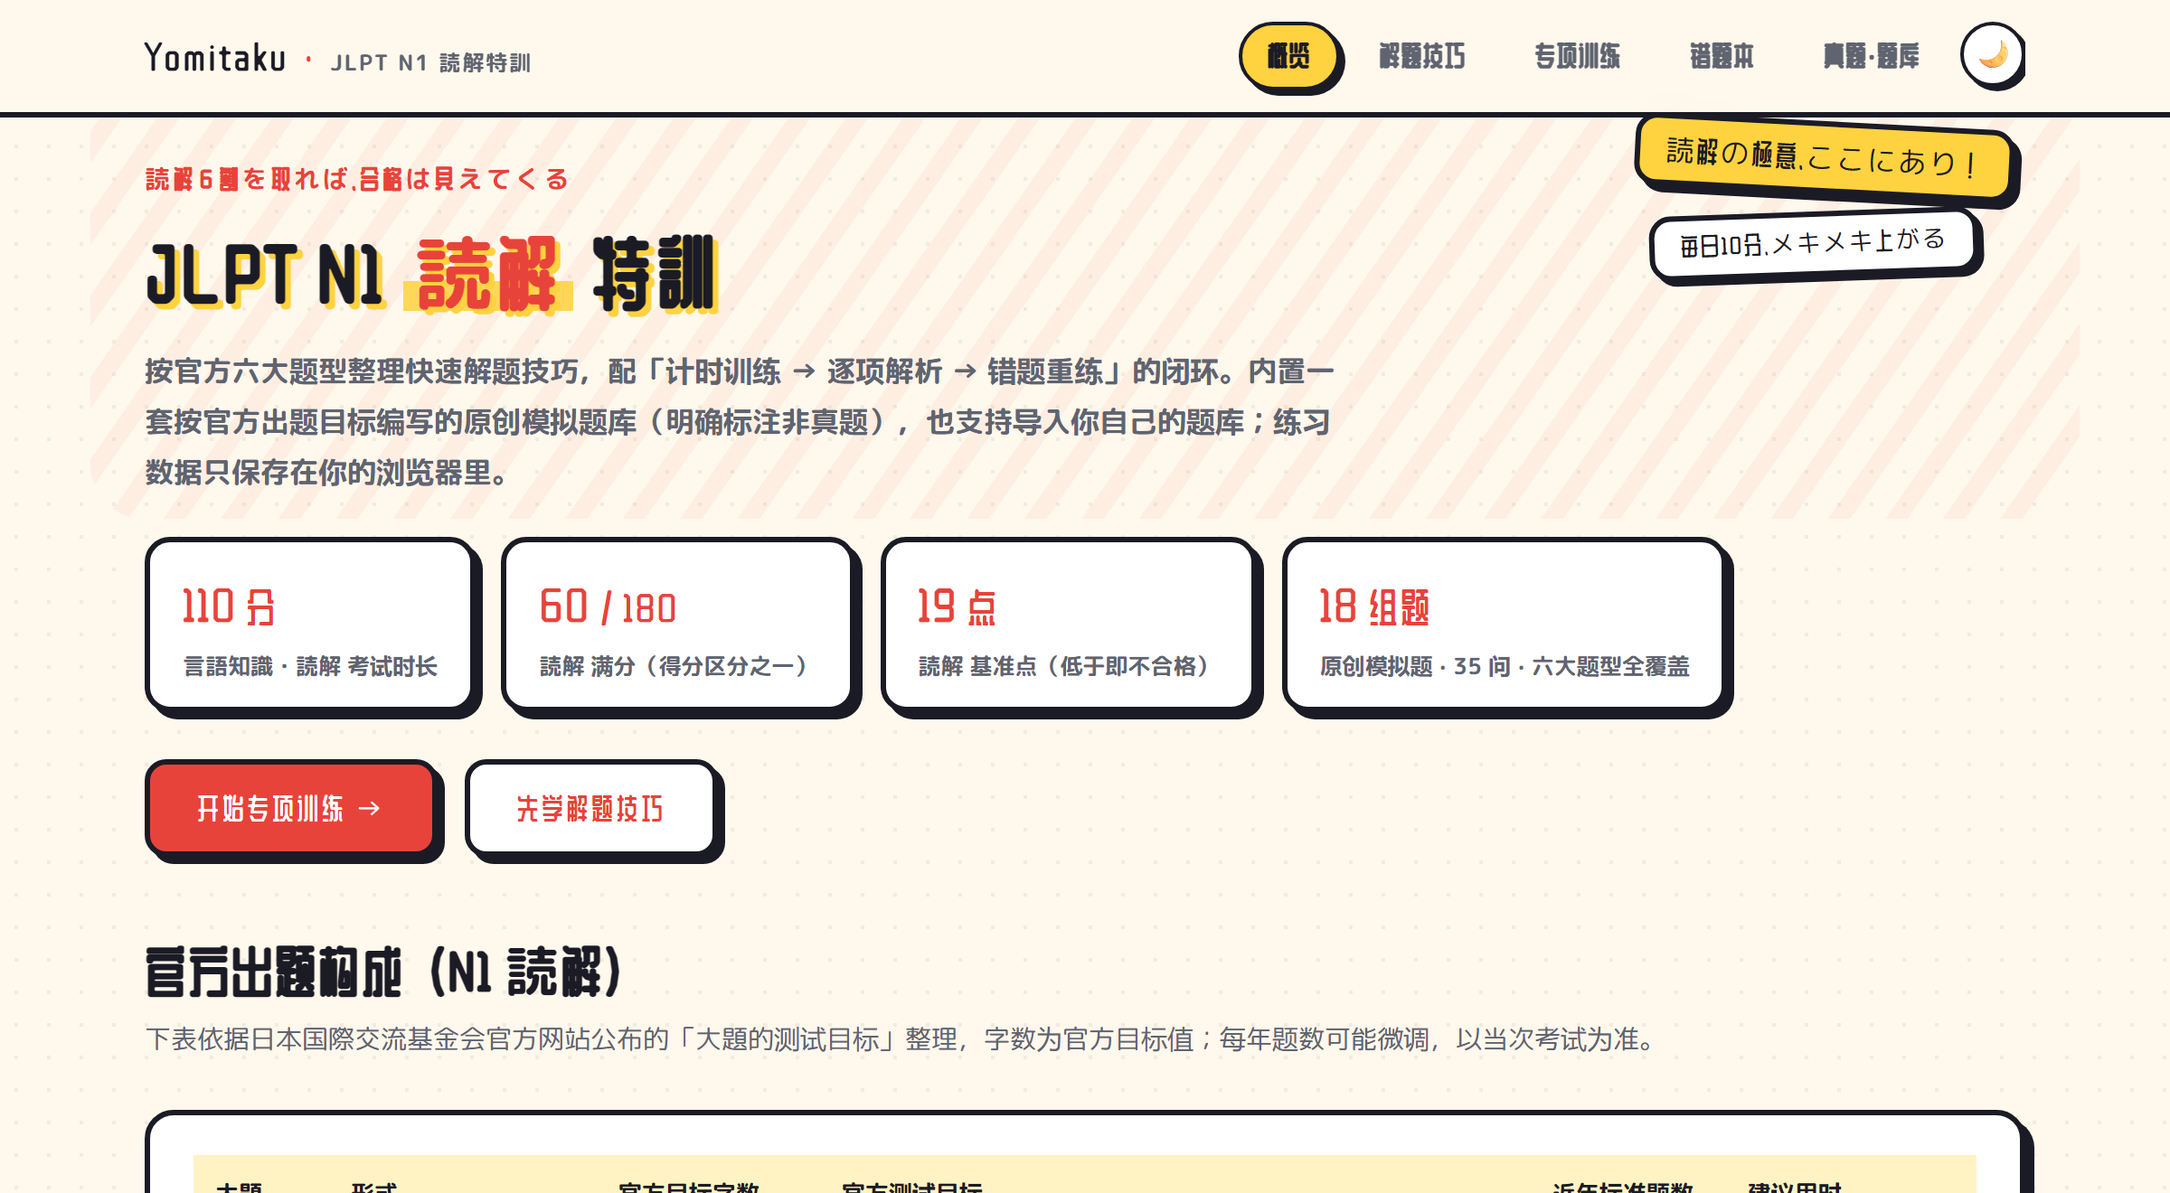
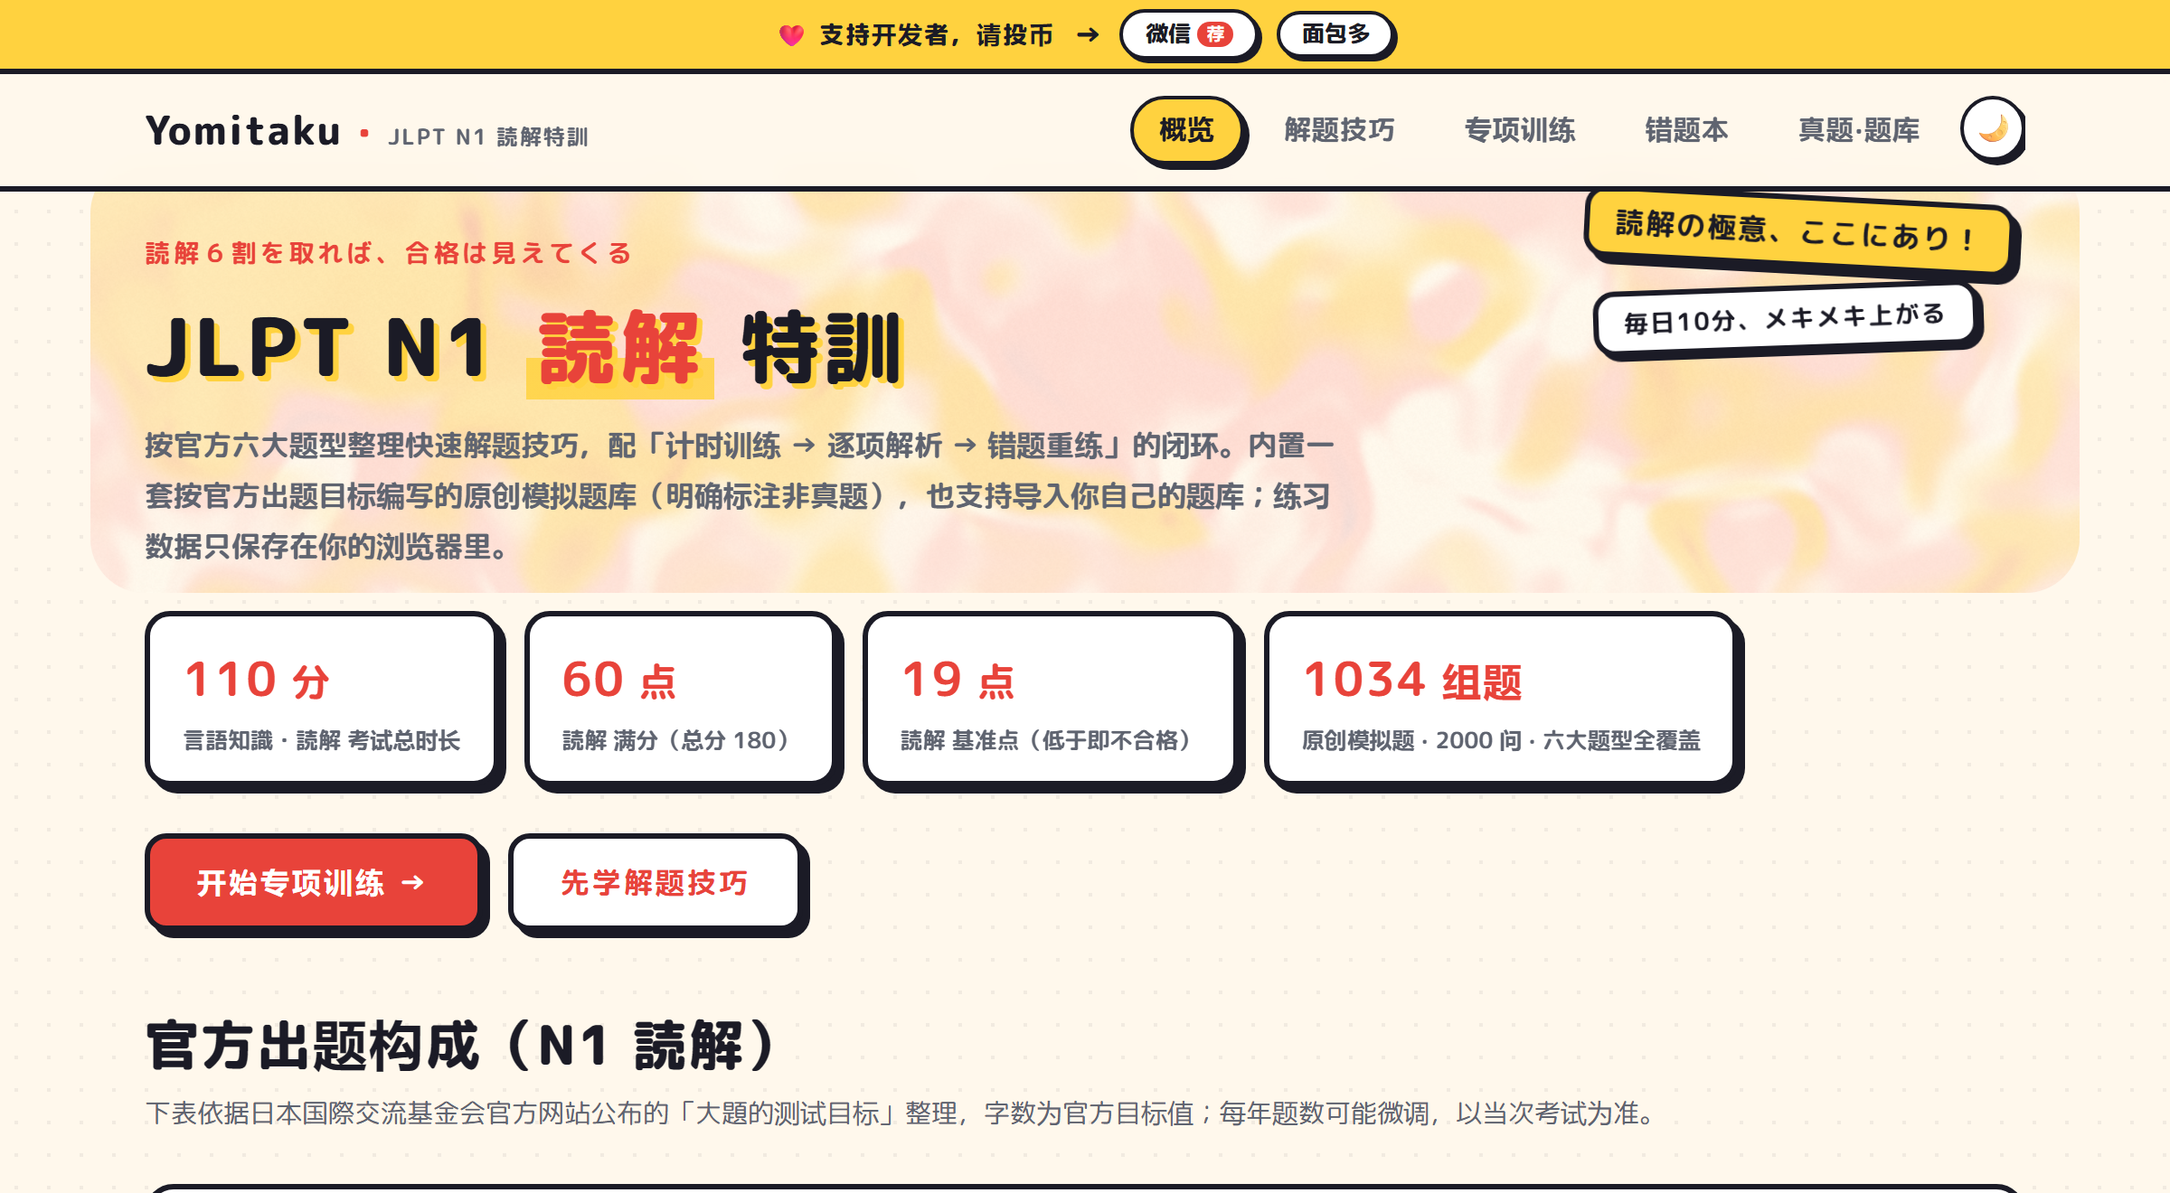
feat: hero 水墨晕染背景 + 入场编排
- WebGL 流体渐变带（技术形态借鉴 DeepSeek Harness 页）：simplex 噪声域扭曲，
  桜/山吹/薄朱在和纸上晕开，深色主题为夜桜/藍残照；复用原斜纹带几何，激活后替换
- 省电三件套：锁 30fps + 滚出视口暂停 + 页面隐藏暂停；移动端 DPR 钳制 1.5
- 降级链静默回落：无 JS/WebGL 失败/系统减弱动态 → 原斜纹带或静态终态
- 入场编排：data-reveal 逐级上浮、数据卡数字滚动、荧光笔扫过、贴纸弹跳+常驻浮动
- 练习页正文零改动

diff --git a/js/hero-ink.js b/js/hero-ink.js
@@ -1,0 +1,268 @@
+/* Yomitaku hero 水墨晕染 + 入场编排。
+   技术形态借鉴 DeepSeek Harness 页（WebGL 流体渐变 + 省电三件套：锁 30fps /
+   滚出视口暂停 / 页面隐藏暂停），配色改写为本站和纸暖色系。
+   降级链（任一环失败都静默回落、绝不白屏）：
+   脚本挂了 → 页面原样；WebGL 不可用 → 斜纹带保留，入场编排照常；
+   prefers-reduced-motion → 全静态，终态由 CSS 兜底。 */
+(function () {
+  'use strict';
+  var hero = document.querySelector('.hero');
+  if (!hero) return;
+  var reduced = window.matchMedia && matchMedia('(prefers-reduced-motion: reduce)').matches;
+
+  /* —— 入场编排：--i 决定 stagger 次序，挂 ink-go 触发过渡 —— */
+  var els = hero.querySelectorAll('[data-reveal]');
+  for (var i = 0; i < els.length; i++) els[i].style.setProperty('--i', i);
+  hero.classList.add('ink-anim');
+  if (reduced) {
+    hero.classList.add('ink-go');
+  } else {
+    requestAnimationFrame(function () {
+      requestAnimationFrame(function () { hero.classList.add('ink-go'); });
+    });
+  }
+
+  /* —— 数据卡数字滚动（含动态统计 [data-bank-stat] 的卡片跳过，避免和 app.js 打架） —— */
+  function count(node, target, t0) {
+    var p = Math.min(1, (performance.now() - t0) / 900);
+    p = 1 - Math.pow(1 - p, 3); /* easeOutCubic */
+    node.nodeValue = String(Math.round(target * p));
+    if (p < 1) requestAnimationFrame(function () { count(node, target, t0); });
+  }
+  if (!reduced) {
+    var nums = hero.querySelectorAll('.fact .num');
+    setTimeout(function () {
+      for (var k = 0; k < nums.length; k++) {
+        var el = nums[k];
+        if (el.querySelector('[data-bank-stat]')) continue;
+        var node = el.firstChild;
+        var target = parseInt(node.nodeValue, 10);
+        if (!isFinite(target) || target <= 0) continue;
+        count(node, target, performance.now());
+      }
+    }, 380);
+  }
+
+  /* —— 水墨晕染画布 —— */
+  var canvas = document.getElementById('hero-ink');
+  if (!canvas || reduced) return; /* 减弱动态：保持静态斜纹带 */
+  var gl = canvas.getContext('webgl', { antialias: false, alpha: false, powerPreference: 'low-power' })
+        || canvas.getContext('experimental-webgl');
+  if (!gl) return;
+
+  var VSH = 'attribute vec2 p; void main(){ gl_Position = vec4(p, 0.0, 1.0); }';
+
+  /* 单 pass 片元着色器：simplex 噪声域扭曲 = 颜料在和纸上晕开。
+     噪声用 Ashima Arts / Stefan Gustavson 的公有领域参考实现。 */
+  var FSH = [
+    'precision mediump float;',
+    'uniform vec2 u_res;',
+    'uniform float u_time;',
+    'uniform vec3 u_base;',
+    'uniform vec3 u_c1;',
+    'uniform vec3 u_c2;',
+    'uniform vec3 u_c3;',
+    'uniform vec3 u_c4;',
+    'uniform float u_grain;',
+    'vec3 mod289(vec3 x){ return x - floor(x * (1.0/289.0)) * 289.0; }',
+    'vec4 mod289(vec4 x){ return x - floor(x * (1.0/289.0)) * 289.0; }',
+    'vec4 permute(vec4 x){ return mod289(((x*34.0)+1.0)*x); }',
+    'vec4 taylorInvSqrt(vec4 r){ return 1.79284291400159 - 0.85373472095314 * r; }',
+    'float snoise(vec3 v){',
+    '  const vec2 C = vec2(1.0/6.0, 1.0/3.0);',
+    '  const vec4 D = vec4(0.0, 0.5, 1.0, 2.0);',
+    '  vec3 i  = floor(v + dot(v, C.yyy));',
+    '  vec3 x0 = v - i + dot(i, C.xxx);',
+    '  vec3 g = step(x0.yzx, x0.xyz);',
+    '  vec3 l = 1.0 - g;',
+    '  vec3 i1 = min(g.xyz, l.zxy);',
+    '  vec3 i2 = max(g.xyz, l.zxy);',
+    '  vec3 x1 = x0 - i1 + C.xxx;',
+    '  vec3 x2 = x0 - i2 + C.yyy;',
+    '  vec3 x3 = x0 - D.yyy;',
+    '  i = mod289(i);',
+    '  vec4 p = permute(permute(permute(',
+    '        i.z + vec4(0.0, i1.z, i2.z, 1.0))',
+    '      + i.y + vec4(0.0, i1.y, i2.y, 1.0))',
+    '      + i.x + vec4(0.0, i1.x, i2.x, 1.0));',
+    '  float n_ = 0.142857142857;',
+    '  vec3 ns = n_ * D.wyz - D.xzx;',
+    '  vec4 j = p - 49.0 * floor(p * ns.z * ns.z);',
+    '  vec4 x_ = floor(j * ns.z);',
+    '  vec4 y_ = floor(j - 7.0 * x_);',
+    '  vec4 x = x_ * ns.x + ns.yyyy;',
+    '  vec4 y = y_ * ns.x + ns.yyyy;',
+    '  vec4 h = 1.0 - abs(x) - abs(y);',
+    '  vec4 b0 = vec4(x.xy, y.xy);',
+    '  vec4 b1 = vec4(x.zw, y.zw);',
+    '  vec4 s0 = floor(b0)*2.0 + 1.0;',
+    '  vec4 s1 = floor(b1)*2.0 + 1.0;',
+    '  vec4 sh = -step(h, vec4(0.0));',
+    '  vec4 a0 = b0.xzyw + s0.xzyw*sh.xxyy;',
+    '  vec4 a1 = b1.xzyw + s1.xzyw*sh.zzww;',
+    '  vec3 p0 = vec3(a0.xy, h.x);',
+    '  vec3 p1 = vec3(a0.zw, h.y);',
+    '  vec3 p2 = vec3(a1.xy, h.z);',
+    '  vec3 p3 = vec3(a1.zw, h.w);',
+    '  vec4 norm = taylorInvSqrt(vec4(dot(p0,p0), dot(p1,p1), dot(p2,p2), dot(p3,p3)));',
+    '  p0 *= norm.x; p1 *= norm.y; p2 *= norm.z; p3 *= norm.w;',
+    '  vec4 m = max(0.6 - vec4(dot(x0,x0), dot(x1,x1), dot(x2,x2), dot(x3,x3)), 0.0);',
+    '  m = m * m;',
+    '  return 42.0 * dot(m*m, vec4(dot(p0,x0), dot(p1,x1), dot(p2,x2), dot(p3,x3)));',
+    '}',
+    'float fbm(vec2 p, float t){',
+    '  float v = 0.0;',
+    '  float a = 0.62;',
+    '  for (int i = 0; i < 2; i++) {',
+    '    v += a * snoise(vec3(p, t));',
+    '    p = p * 2.1 + 17.3;',
+    '    a *= 0.5;',
+    '  }',
+    '  return v;',
+    '}',
+    'void main(){',
+    '  vec2 uv = gl_FragCoord.xy / u_res;',
+    '  vec2 p = uv; p.x *= u_res.x / u_res.y;',
+    '  float t = u_time;',
+    /* 两层低频噪声场互相推动 = 墨滴晕开的走向 */
+    '  vec2 w = vec2(fbm(p * 1.3, t * 0.05), fbm(p * 1.3 + 5.2, t * 0.05 + 1.7));',
+    '  float n = fbm(p * 1.7 + w * 1.1, t * 0.04) * 0.5 + 0.5;',
+    '  float s = snoise(vec3(p * 0.9 + w, t * 0.03)) * 0.5 + 0.5;',
+    '  vec3 col = u_base;',
+    '  col = mix(col, u_c1, smoothstep(0.28, 0.60, n) * 0.85);',
+    '  col = mix(col, u_c2, smoothstep(0.42, 0.72, s) * 0.85);',
+    '  col = mix(col, u_c3, smoothstep(0.42, 0.75, n * s) * 0.7);',
+    '  col = mix(col, u_c4, smoothstep(0.58, 0.92, n - s * 0.35) * 0.5);',
+    /* 纸纹颗粒：半调网点的近亲 */
+    '  float g = fract(sin(dot(gl_FragCoord.xy, vec2(12.9898, 78.233))) * 43758.5453);',
+    '  col += (g - 0.5) * u_grain;',
+    /* 边缘收向纸色，圆角外与页面底色无缝衔接 */
+    '  float edge = smoothstep(0.0, 0.16, uv.x) * smoothstep(1.0, 0.84, uv.x)',
+    '             * smoothstep(0.0, 0.30, uv.y) * smoothstep(1.0, 0.70, uv.y);',
+    '  col = mix(u_base, col, 0.82 + 0.18 * edge);',
+    '  gl_FragColor = vec4(col, 1.0);',
+    '}'
+  ].join('\n');
+
+  function makeShader(type, src) {
+    var s = gl.createShader(type);
+    gl.shaderSource(s, src);
+    gl.compileShader(s);
+    return gl.getShaderParameter(s, gl.COMPILE_STATUS) ? s : null;
+  }
+  var vs = makeShader(gl.VERTEX_SHADER, VSH);
+  var fs = makeShader(gl.FRAGMENT_SHADER, FSH);
+  if (!vs || !fs) return;
+  var prog = gl.createProgram();
+  gl.attachShader(prog, vs);
+  gl.attachShader(prog, fs);
+  gl.linkProgram(prog);
+  if (!gl.getProgramParameter(prog, gl.LINK_STATUS)) return;
+  gl.useProgram(prog);
+
+  var buf = gl.createBuffer();
+  gl.bindBuffer(gl.ARRAY_BUFFER, buf);
+  gl.bufferData(gl.ARRAY_BUFFER, new Float32Array([-1, -1, 1, -1, -1, 1, 1, 1]), gl.STATIC_DRAW);
+  var loc = gl.getAttribLocation(prog, 'p');
+  gl.enableVertexAttribArray(loc);
+  gl.vertexAttribPointer(loc, 2, gl.FLOAT, false, 0, 0);
+
+  var U = {};
+  var UNAMES = ['u_res', 'u_time', 'u_base', 'u_c1', 'u_c2', 'u_c3', 'u_c4', 'u_grain'];
+  for (var u = 0; u < UNAMES.length; u++) U[UNAMES[u]] = gl.getUniformLocation(prog, UNAMES[u]);
+
+  /* 和纸暖色（浅）／夜の和紙（深），与 CSS 令牌同一族 */
+  var PALETTES = {
+    light: {
+      base: [1.0, 0.973, 0.925],   /* #fff8ec 和纸 */
+      c1: [1.0, 0.851, 0.812],     /* #ffd9cf 桜 */
+      c2: [1.0, 0.890, 0.631],     /* #ffe3a1 山吹 */
+      c3: [0.965, 0.722, 0.682],   /* #f6b8ae 薄朱 */
+      c4: [0.800, 0.827, 0.867],   /* #ccd3dd 淡藍墨 */
+      grain: 0.02
+    },
+    dark: {
+      base: [0.090, 0.082, 0.129], /* #171521 夜の和紙 */
+      c1: [0.227, 0.137, 0.192],   /* 夜桜 */
+      c2: [0.122, 0.200, 0.314],   /* 藍 */
+      c3: [0.302, 0.145, 0.157],   /* 朱の残照 */
+      c4: [0.247, 0.212, 0.125],   /* 夜金 */
+      grain: 0.028
+    }
+  };
+  function applyTheme() {
+    var p = PALETTES[document.documentElement.getAttribute('data-theme') === 'dark' ? 'dark' : 'light'];
+    gl.uniform3fv(U.u_base, p.base);
+    gl.uniform3fv(U.u_c1, p.c1);
+    gl.uniform3fv(U.u_c2, p.c2);
+    gl.uniform3fv(U.u_c3, p.c3);
+    gl.uniform3fv(U.u_c4, p.c4);
+    gl.uniform1f(U.u_grain, p.grain);
+  }
+  new MutationObserver(applyTheme).observe(document.documentElement, { attributes: true, attributeFilter: ['data-theme'] });
+
+  /* 移动端 DPR 钳制：2~3 倍屏全按原生分辨率渲是手机 GPU 翻车主因；
+     柔和低频晕染降采样肉眼不可辨，1.5 足够 */
+  var dpr = Math.min(window.devicePixelRatio || 1, 1.5);
+  function resize() {
+    var r = canvas.getBoundingClientRect();
+    var w = Math.max(1, Math.round(r.width * dpr));
+    var h = Math.max(1, Math.round(r.height * dpr));
+    if (canvas.width !== w || canvas.height !== h) {
+      canvas.width = w;
+      canvas.height = h;
+      gl.viewport(0, 0, w, h);
+    }
+    gl.uniform2f(U.u_res, w, h); /* 着色器按此做 uv 归一化——漏设会除零，全场坍缩成底色 */
+  }
+
+  var FRAME = 1000 / 30; /* 锁 30fps：氛围动画不需要 60，省电是硬指标 */
+  var raf = 0, last = 0, t0 = performance.now(), onScreen = true;
+  function draw(now) {
+    gl.uniform1f(U.u_time, (now - t0) / 1000);
+    gl.drawArrays(gl.TRIANGLE_STRIP, 0, 4);
+  }
+  function loop(now) {
+    raf = 0;
+    if (!onScreen || document.hidden) return;
+    if (now - last < FRAME) { raf = requestAnimationFrame(loop); return; }
+    last = now;
+    draw(now);
+    raf = requestAnimationFrame(loop);
+  }
+  function kick() {
+    if (!raf && onScreen && !document.hidden) raf = requestAnimationFrame(loop);
+  }
+  function stop() {
+    if (raf) { cancelAnimationFrame(raf); raf = 0; }
+  }
+  if ('IntersectionObserver' in window) {
+    new IntersectionObserver(function (es) {
+      onScreen = es[0].isIntersecting; /* hero 滚出视口即停，滚回来再续 */
+      onScreen ? kick() : stop();
+    }).observe(hero);
+  }
+  document.addEventListener('visibilitychange', function () {
+    document.hidden ? stop() : kick();
+  });
+  window.addEventListener('resize', function () {
+    resize();
+    if (!raf) draw(performance.now()); /* 暂停中也要让新尺寸立即出帧 */
+  });
+
+  applyTheme();
+
+  /* 激活时序：先量尺寸（opacity 方案下元素恒有布局），量到有效值才接管斜纹带；
+     解析期强制布局可能量到 0，下一帧重试。同步出首帧避免画布闪黑。 */
+  var started = false;
+  function tryActivate() {
+    if (started) return;
+    resize();
+    if (canvas.width < 10) { requestAnimationFrame(tryActivate); return; }
+    started = true;
+    hero.classList.add('ink-on');
+    draw(performance.now());
+    kick();
+  }
+  requestAnimationFrame(tryActivate);
+})();

diff --git a/index.html b/index.html
@@ -64,19 +64,20 @@
   <!-- ================= 概览 ================= -->
   <section class="page" id="page-home">
     <div class="hero">
+      <canvas class="ink" id="hero-ink" aria-hidden="true"></canvas>
       <span class="sticker">読解の極意、ここにあり！</span>
       <span class="sticker sticker-2">毎日10分、メキメキ上がる</span>
-      <p class="eyebrow">読解６割を取れば、合格は見えてくる</p>
-      <h1>JLPT N1 <em>読解</em> 特訓</h1>
-      <p class="lead">按官方六大题型整理快速解题技巧，配「计时训练 → 逐项解析 → 错题重练」的闭环。内置一套按官方出题目标编写的原创模拟题库（明确标注非真题），也支持导入你自己的题库；练习数据只保存在你的浏览器里。</p>
+      <p class="eyebrow" data-reveal>読解６割を取れば、合格は見えてくる</p>
+      <h1 data-reveal>JLPT N1 <em>読解</em> 特訓</h1>
+      <p class="lead" data-reveal>按官方六大题型整理快速解题技巧，配「计时训练 → 逐项解析 → 错题重练」的闭环。内置一套按官方出题目标编写的原创模拟题库（明确标注非真题），也支持导入你自己的题库；练习数据只保存在你的浏览器里。</p>
       <div class="facts">
-        <div class="fact"><div class="num">110<small> 分</small></div><div class="lbl">言語知識・読解 <span class="keep">考试总时长</span></div></div>
-        <div class="fact"><div class="num">60<small> 点</small></div><div class="lbl">読解 满分<span class="keep">（总分 180）</span></div></div>
-        <div class="fact"><div class="num">19<small> 点</small></div><div class="lbl">読解 基准点<span class="keep">（低于即不合格）</span></div></div>
-        <div class="fact"><div class="num"><span data-bank-stat="sets">80</span><small> 组题</small></div><div class="lbl">原创模拟题 · <span data-bank-stat="q">155</span>&nbsp;问 · 六大题型全覆盖</div></div>
+        <div class="fact" data-reveal><div class="num">110<small> 分</small></div><div class="lbl">言語知識・読解 <span class="keep">考试总时长</span></div></div>
+        <div class="fact" data-reveal><div class="num">60<small> 点</small></div><div class="lbl">読解 满分<span class="keep">（总分 180）</span></div></div>
+        <div class="fact" data-reveal><div class="num">19<small> 点</small></div><div class="lbl">読解 基准点<span class="keep">（低于即不合格）</span></div></div>
+        <div class="fact" data-reveal><div class="num"><span data-bank-stat="sets">80</span><small> 组题</small></div><div class="lbl">原创模拟题 · <span data-bank-stat="q">155</span>&nbsp;问 · 六大题型全覆盖</div></div>
       </div>
-      <a class="btn" href="#practice">开始专项训练 →</a>
-      <a class="btn ghost" href="#tech" style="margin-left:10px">先学解题技巧</a>
+      <a class="btn" href="#practice" data-reveal>开始专项训练 →</a>
+      <a class="btn ghost" href="#tech" style="margin-left:10px" data-reveal>先学解题技巧</a>
     </div>
 
     <h2 class="page-title" style="margin-top:34px">官方出题构成（N1 読解）</h2>
@@ -473,6 +474,7 @@
 <script defer src="js/bank/shucho.js?v=bddeec09"></script>
 <script defer src="js/bank/joho.js?v=68076865"></script>
 <script defer src="js/app.js?v=b009dc0e"></script>
+<script src="./js/hero-ink.js"></script>
 <script>
 /* PWA：注册 Service Worker（file:// 直接打开时自动跳过） */
 if ('serviceWorker' in navigator && (location.protocol === 'https:' || location.hostname === '127.0.0.1' || location.hostname === 'localhost')) {

diff --git a/css/style.css b/css/style.css
@@ -590,3 +590,49 @@ footer.site {
     transition: none !important;
   }
 }
+
+/* ===================== hero 水墨晕染 + 入场编排（js/hero-ink.js） =====================
+   画布复用 .hero::before 的几何（位置/圆角/出血），激活后替换静态斜纹带；
+   JS 失败/WebGL 不可用/系统减弱动态 → 一切保持原样（斜纹带、内容立即可见）。 */
+.hero .ink {
+  opacity: 0; /* 仅 JS 成功激活（.ink-on）后可见；不用 display:none，保证任何时刻可量尺寸 */
+  position: absolute; top: -18px; left: -30px; right: -30px; height: 240px;
+  width: calc(100% + 60px); border-radius: 30px; z-index: -1;
+}
+.hero.ink-on::before { display: none; }
+.hero.ink-on .ink { display: block; animation: ink-in .9s ease both; }
+@keyframes ink-in { from { opacity: 0; } to { opacity: 1; } }
+
+/* 入场编排：只在 JS 挂上 .ink-anim 后才隐藏元素，无 JS 时内容原样可见 */
+.ink-anim [data-reveal] {
+  opacity: 0; translate: 0 16px;
+  transition: opacity .6s ease, translate .6s cubic-bezier(.2, .7, .3, 1);
+  transition-delay: calc(var(--i, 0) * 80ms);
+}
+.ink-anim.ink-go [data-reveal] { opacity: 1; translate: 0 0; }
+
+/* 贴纸：弹跳入场 + 常驻轻浮动（translate/scale 是独立属性，不覆盖 transform 的 rotate） */
+.ink-anim .sticker { scale: .6; opacity: 0; transition: scale .45s cubic-bezier(.34, 1.56, .64, 1) .85s, opacity .3s ease .85s; }
+.ink-anim .sticker-2 { transition-delay: 1s, 1s; }
+.ink-anim.ink-go .sticker { scale: 1; opacity: 1; animation: ink-float 4.5s 1.8s ease-in-out infinite alternate; }
+.ink-anim.ink-go .sticker-2 { animation-duration: 5.4s; animation-delay: 2.4s; }
+@keyframes ink-float { from { translate: 0 0; } to { translate: 0 -5px; } }
+
+/* 荧光笔扫过：h1 em 的黄色衬底从左画到右（终态与原样式视觉一致） */
+.ink-anim h1 em { background: linear-gradient(var(--hl), var(--hl)) no-repeat left bottom / 0% 38%; }
+.ink-anim.ink-go h1 em { animation: ink-hl .7s .6s cubic-bezier(.3, .6, .3, 1) forwards; }
+@keyframes ink-hl { to { background-size: 100% 38%; } }
+
+@media (max-width: 640px) {
+  /* 与 .hero::before 的窄屏几何保持一致（170px 高、-20px 出血） */
+  .hero .ink { height: 170px; left: -20px; right: -20px; width: calc(100% + 40px); }
+}
+
+/* 减弱动态：全局块已杀 animation/transition，这里补齐各终态 + 画布回落静态斜纹 */
+@media (prefers-reduced-motion: reduce) {
+  .ink-anim [data-reveal] { opacity: 1; translate: none; }
+  .ink-anim .sticker { scale: 1; opacity: 1; }
+  .ink-anim h1 em { background: linear-gradient(transparent 62%, var(--hl) 62%); }
+  .hero .ink { display: none; }
+  .hero.ink-on::before { display: block; }
+}
